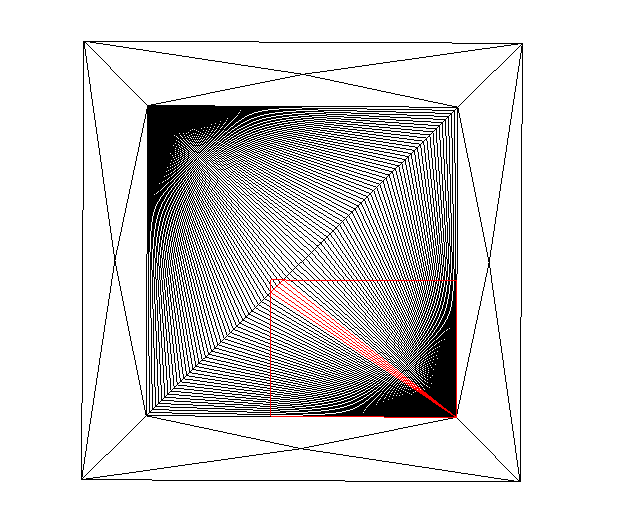
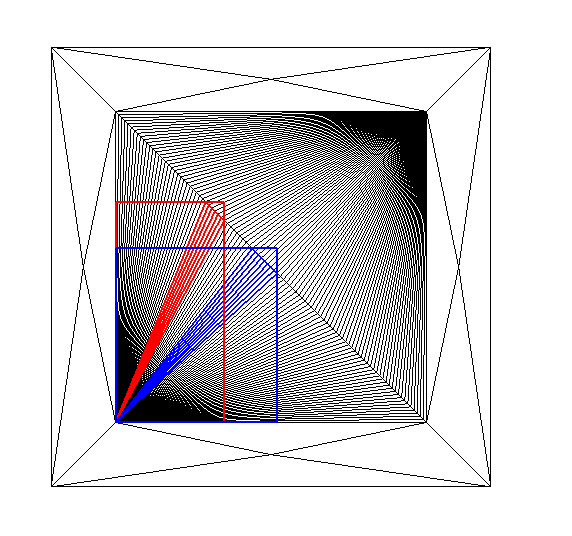
Updating a figure in the MPBVH chapter.

Changed region(s): [[0.0892, 0.0604, 0.8619, 0.9358], [0.7727, 0.8151, 0.8024, 0.8453], [0.7727, 0.1509, 0.8024, 0.1811]]

diff --git a/document/chapters/05-high_valence.tex b/document/chapters/05-high_valence.tex
@@ -418,9 +418,16 @@ and in turn, triangles, visited.
 
 \begin{figure}
   \centering
-  \includegraphics[scale=0.5]{hv_overlap_simd_bvh.png}
-  \caption{Visualization of a large bounding box surrounding low aspect ratio,
-    off-axis triangles.}
+  \begin{subfigure}{.5\textwidth}
+    \centering
+    \includegraphics[scale=0.37]{hv_overlap_simd_bvh.png}
+  \end{subfigure}%
+  \begin{subfigure}{.5\textwidth}
+    \centering
+    \includegraphics[scale=0.37]{hv_obbs.png}
+  \end{subfigure}
+  \caption{Visualization of both axis-aligned and oriented boxes surrounding low
+    aspect ratio, off-axis triangles.}
   \label{fig:hv_overlap_simd_bvh}
 \end{figure}
 
@@ -457,7 +464,6 @@ transformations. Some of this computational cost is avoided by incorporating the
 spatial scaling of the node into both the affine space and reference point to
 avoid the additional computational cost of scaling the parametric values of the
 ray intersection later in the calculation.
-
 
 \subsection{Adaptive Construction: Mixed AABB/OBBs}
 

diff --git a/document/includes/preamble.tex b/document/includes/preamble.tex
@@ -19,6 +19,8 @@
 \usepackage{realboxes}
 \usepackage{cancel}
 \usepackage{siunitx}
+\usepackage{subcaption}
+
 %% You should use natbib
 \IfFileExists{natbib.sty}{%
 \usepackage[numbers,sort]{natbib}%
